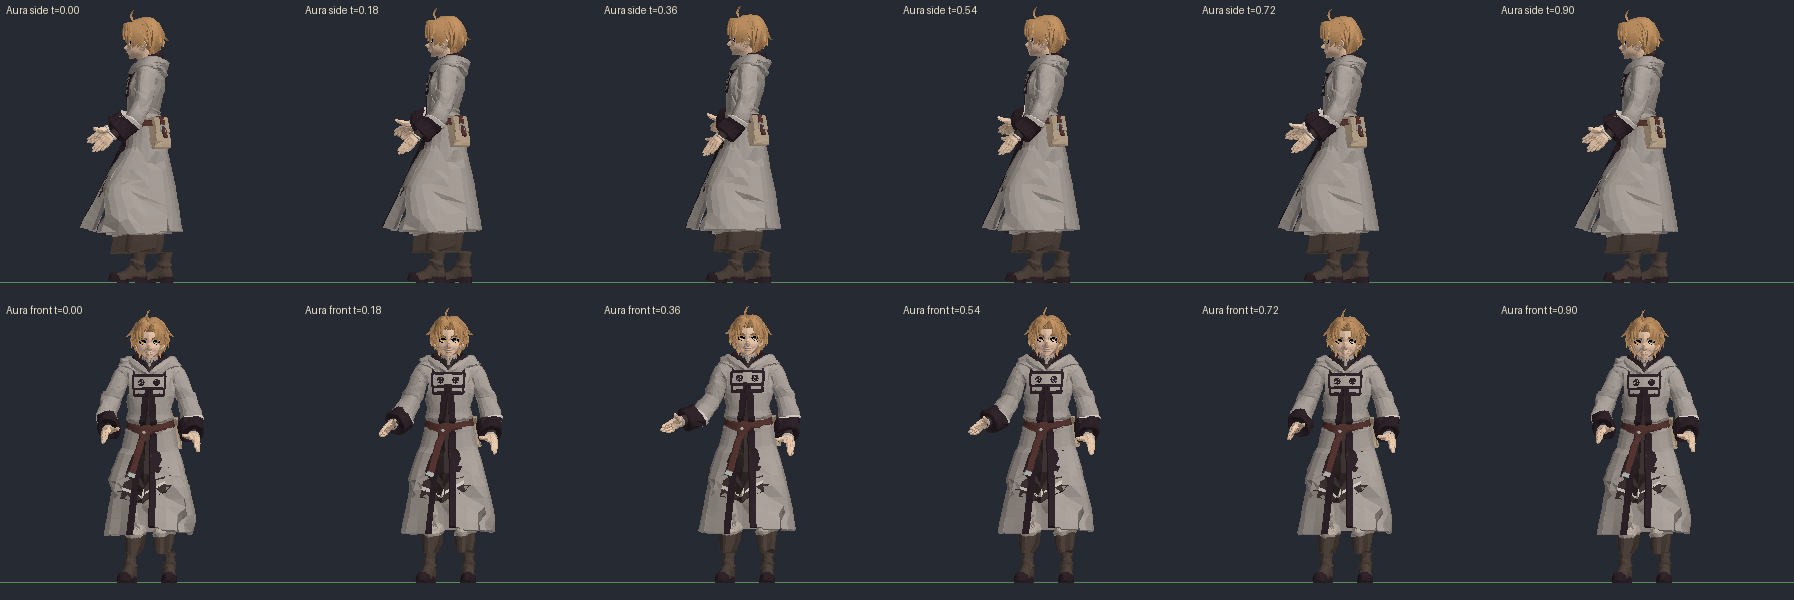
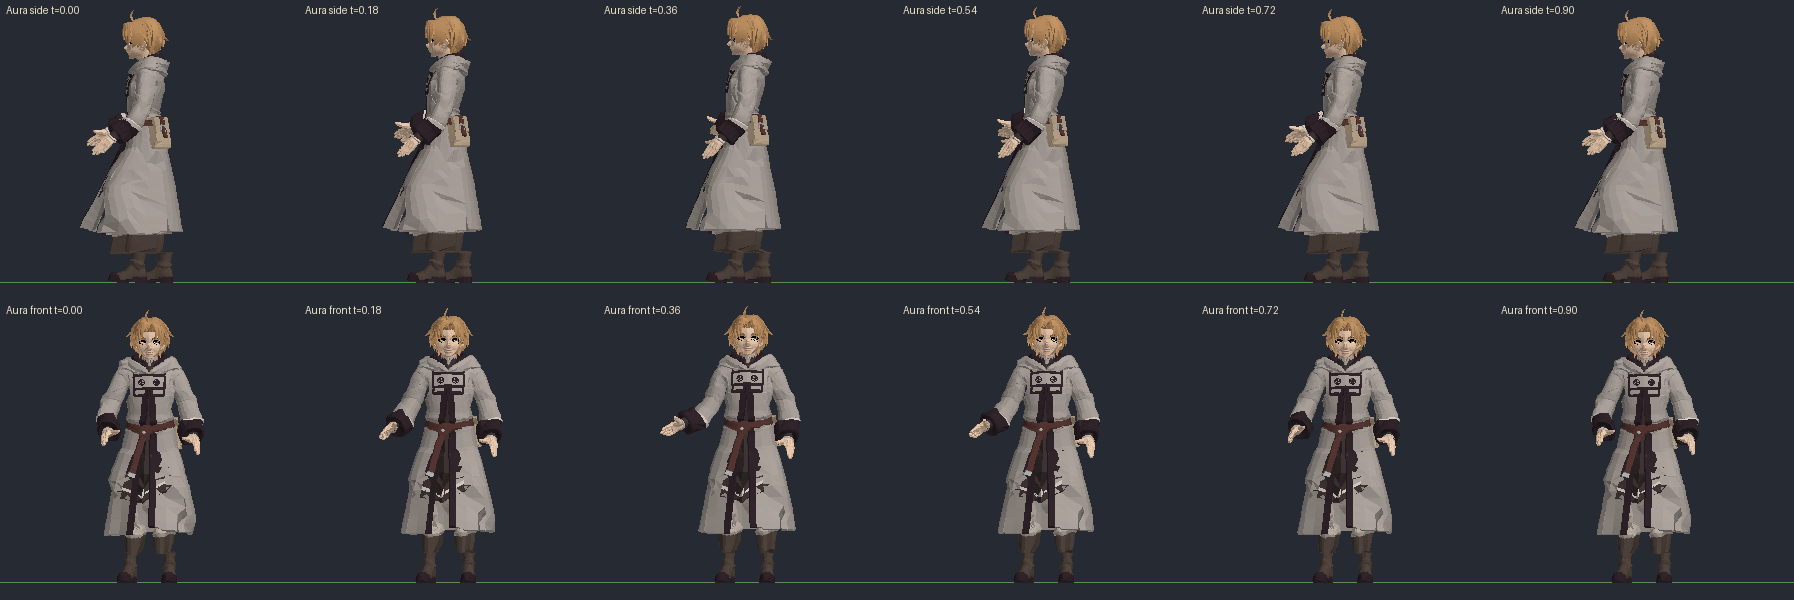
Ground clamp on every non-gait clip; Orsted set verified on a 1.9 m stand-in; Phase 1 QA regrade
- build_rudeus_anims.py: the ground clamp now covers every one-shot and stance loop (it only
  raises and is a no-op otherwise). Found by building Orsted's 40 clips on the 1.9 m re-rig
  stand-in: Dragon Step (-5.3 cm) and Quagmire (-3.8 cm) reached into the floor; now fixed,
  verify_glb PASS. Rudeus's build is byte-identical (nothing of his was affected).
- Refreshed the A_Orsted_* stand-in contact sheets to the current clip definitions.
- Docs/Phase1_QA.md: honest regrade after the offline animation pass (animation 0.5 -> 3.5,
  overall 2.3 -> 2.6, still FAIL: nothing has run in Unreal); next steps updated for UE 5.8.
- Docs/QA_Animation.md: clamp rule and the Orsted stand-in results.

Claude-Session: https://claude.ai/code/session_01NntBTN5dc5yDiRmoauiPvR

diff --git a/Tools/anim/build_rudeus_anims.py b/Tools/anim/build_rudeus_anims.py
@@ -27,14 +27,20 @@ QA_DIR = os.path.join(scene.ROOT, "Docs", "Images", "Animation")
 TEX = os.path.join(os.path.dirname(os.path.abspath(__file__)), "..", "..", "SourceArt", "Characters", "Rudeus", "Rudeus_Atlas.png")
 
 
-GROUND_CLAMP = {"Knockdown", "Death", "DodgeForward", "DodgeBack", "DodgeLeft", "DodgeRight", "HardLand", "Land", "JumpStart"}
+AIRBORNE = {"Rise", "Fall"}  # these loops only ever play while the capsule is in the air
+
+
+def needs_ground_clamp(name):
+    """Every clip that can reach the floor with more than its planted feet (lying down, kneeling, a hand on the
+    ground, a longer-limbed lineage): all one-shots and stance loops. Gait loops are exact IK by construction."""
+    return name not in AIRBORNE and name not in C.GAITS
 
 
 def ground_corrected(rig, mesh, name, params):
     """Compose a pose; for clips that touch the floor with the body, raise the pelvis so the lowest
     skinned vertex rests exactly on the ground (no penetration, no floating when lying down)."""
     D, pel = compose(rig, params)
-    if name not in GROUND_CLAMP:
+    if not needs_ground_clamp(name):
         return D, pel
     p2 = dict(params)
     base_z = params.get("pel_z", DEFAULTS["pel_z"])

diff --git a/Docs/Phase1_QA.md b/Docs/Phase1_QA.md
@@ -24,6 +24,10 @@ Every category that depends on seeing the game run is graded on **evidence only*
 | Terrain generation (`Tools/generate_fittoa_terrain.py`) | Heights 25–236 m, weight maps sum to 255 on every pixel: **PASS** |
 | Static integrity check of the C++ module (89 files, ~23.7k lines, 102 reflected types) | Local includes resolve, `generated.h` correct and last, no duplicate types, no Blueprint-exposed weak pointers: **PASS** |
 | Cross-module API check (HUD ↔ player ↔ progression ↔ save ↔ quests ↔ time of day) | Signatures match at every call site checked: **PASS** |
+| Animation build metrics (`Tools/anim/build_rudeus_anims.py`, 37 clips) | 0.00 cm IK error on planted frames, 0.00 cm/s planted slip, 0.000° loop seams: **PASS** |
+| Independent GLB check (`Tools/anim/verify_glb.py`, numpy skinning, no Blender) | 136 joints, 1.617 m, 37 clips with exact durations, floor-contact clips within 0.6 cm of the ground: **PASS** |
+| Per-frame motion QA (`Tools/anim/qa_animation_quality.py`) | No hyperextension, no wrist twist, no quaternion flips, fastest limb 31.3°/frame (dash start), ankles ≥ 13.2 cm apart, planted-foot slide ≤ 4.2 cm (knockback / dodge landings): measured, see `Docs/QA_Animation.md` |
+| Setup scripts against a mock `unreal` module | Rudeus 37/37 and Orsted 40/40 clips placed, second run idempotent, 0 FAIL lines |
 
 ## Grade: Phase 1 scope
 
@@ -31,7 +35,7 @@ Every category that depends on seeing the game run is graded on **evidence only*
 |---|---|---|---|
 | 1 | Gameplay | 2.0 | Complete systems written, never played |
 | 2 | Responsiveness | 1.5 | Input buffer, root-motion dodge, camera lag tuned on paper only |
-| 3 | Animation | 0.5 | No clips downloaded, no AnimBP asset, no custom Control Rig animations |
+| 3 | Animation | 3.5 | 37 clips authored on Rudeus's own skeleton and verified offline (metrics above), plus graph-free playback code. Never seen in Unreal, and the playback code has never compiled; procedural keys with no mocap nuance. |
 | 4 | Character accuracy | 6.5 | Uses **your** model at the correct scale with original colours. Not yet seen in-engine; the lit toon material is untested. |
 | 5 | Combat | 2.0 | Full framework in code, unplayed |
 | 6 | VFX | 0.5 | No Niagara assets. Placeholders differ per element but are placeholders. |
@@ -42,7 +46,7 @@ Every category that depends on seeing the game run is graded on **evidence only*
 | 11 | Stability | 1.0 | Never compiled; first compile will surface errors |
 | 12 | Lore / reference accuracy | 6.5 | Researched with CANON vs ORIGINAL labels, but only through search summaries (source pages were blocked) |
 
-**Overall: 2.3 / 10. FAIL** (target 8.5; critical categories animation, stability and gameplay are far below 8.0).
+**Overall: 2.6 / 10. FAIL** (target 8.5; critical categories animation, stability and gameplay are far below 8.0).
 
 ## Improvement passes (five-pass rule)
 
@@ -60,15 +64,39 @@ Every category that depends on seeing the game run is graded on **evidence only*
 - **Testing:** static include/type check PASS, data validator PASS, roll sim PASS.
 - **New score:** 2.3
 
-### PASS 3 – PASS 5: blocked
+### PASS 3 (offline animation content)
+- **Score:** 2.3
+- **Problems:**
+  - Mixamo needs an interactive login, so there were no clips at all.
+  - The first authored set had:
+    - 350° quaternion flips;
+    - strike and dodge snaps up to 52.6°/frame;
+    - feet skating up to 25 cm in stagger, knockdown and awakening;
+    - strafe boots colliding (5.4 cm gap);
+    - projectile spawns that were ahead of the casting gesture;
+    - no clip for locked-on running (the forward run slid sideways).
+- **Changes:**
+  - 37 clips authored with the tools in `Tools/anim`: monotone-cubic keys, position-space FK/IK leg blending, re-timed strikes, real recovery steps, new RunStrafeLeft/Right/RunBack loops.
+  - Native 4-way directional blending on both gait bands.
+  - The Orsted pipeline switches his data to his own clips.
+- **Testing:** builder metrics, the independent numpy GLB verifier and per-frame motion QA, all measured (table above and `Docs/QA_Animation.md`). Contact sheets were reviewed visually.
+- **New score:** 2.6 (animation 0.5 → 3.5; every other category unchanged, because nothing has run in-engine).
 
-The remaining weaknesses (compile, animation, in-engine feel, VFX, visual QA for z-fighting and flicker) can only be fixed and tested inside Unreal Engine. Running more "passes" here would mean inventing scores, which the brief forbids.
+### PASS 4 – PASS 5: blocked
+
+The remaining weaknesses need Unreal Engine to fix and test: compile, in-engine animation and feel, VFX, and visual QA for z-fighting and flicker. Running more "passes" here would mean inventing scores, which the brief forbids.
 
 ## What remains below target, and exactly how to close it
 
-1. **Compile** in UE 5.5 and fix errors. This is the stability gate and nothing else counts until it's done.
-2. `py mt_create_materials.py` → `py mt_setup_rudeus.py`. Check 161.7 cm, the sockets, IK_Rudeus, and RTG_Mixamo_To_Rudeus.
-3. Download the Mixamo clips in `Animation_Pipeline.md` §1. Re-run the setup to batch-retarget, then fix the shoulder, knee and pelvis retarget pose.
-4. Build `ABP_Rudeus` on `UMTAnimInstance` (§4). Test idle → walk → run → sprint → jump → fall → land → run for snapping and foot sliding.
-5. Deformation test: shoulders, elbows, wrists, spine, neck, knees and ankles on extreme poses. Add a physics asset or AnimDynamics for the skirt and hair chains.
+1. **Compile** in UE 5.8 on the Mac: `Tools/mac/build_and_setup.sh --build-only`, and fix the errors. This is the stability gate, and nothing else counts until it's done. The riskiest engine APIs are listed in `Docs/Animation_Pipeline.md` §0.
+2. Run `Tools/mac/build_and_setup.sh` (materials, Rudeus import with 37 clips and sockets, world). Every `FAIL` / `MANUAL` line is a task.
+3. In Play-In-Editor, test these for snapping, foot sliding and blend pops:
+   - idle → walk → run → sprint → jump → fall → land → run;
+   - lock-on strafing at walk and run, in all 8 directions;
+   - every cast while standing and while moving (the upper-body layer);
+   - dodges, hits, stagger, knockdown and death.
+4. Deformation check in-engine: shoulders, elbows, wrists, spine, neck, knees and ankles on extreme poses. Add a physics asset or AnimDynamics for the skirt and hair chains.
+5. Orsted:
+   - Get his generated GLB into the repo. The CloudFront host is blocked for this cloud session, so either allow it in the environment's network settings or upload the file.
+   - Run `Tools/anim/make_orsted.sh <glb>`, then `Tools/mac/build_and_setup.sh`.
 6. Regrade with the same table. Only then move to Phase 2.

diff --git a/Docs/QA_Animation.md b/Docs/QA_Animation.md
@@ -24,7 +24,7 @@ Mixamo requires an interactive Adobe login, which this cloud session can't use. 
 - **Monotone cubic key interpolation** (Steffen). Motion flows through intermediate keys instead of stopping at each one. It eases into extremes (contacts, strike extensions, holds) and never overshoots a key.
 - **Automatic pelvis lowering** whenever a stride would over-extend a leg, so no leg ever snaps straight.
 - **Coat panels** (8 chains) follow the thighs, so legs never poke through the robe. Hair and coat trail at speed.
-- **Ground clamp** (iterative, per frame) for clips where the body touches the floor.
+- **Ground clamp** (iterative, per frame) on every one-shot and stance loop: nothing but the planted feet ever goes below the floor. It only raises the body and is a no-op otherwise. Gait loops are exact IK by construction; Rise and Fall only play in the air.
 - **Continuous quaternion signs** on export: no 360° flips for any interpolator.
 - **Rig repair:** 214 eye vertices were 100% weighted to the root control bone and would have hung in the air at standing eye height during crouches, knockdowns and death. They are re-weighted to the head.
 
@@ -178,6 +178,16 @@ Projectiles spawn at the ability's `CastTime`, so each strike now reaches full e
 - the lowest vertex of every floor-contact clip within 0.6 cm of the ground.
 
 Rise is an air loop and reaches −2.7 cm in place; it only ever plays while airborne. The contact sheet is in `Docs/Images/Animation/Verify_ExportedGLB.png`, and per-clip sheets are in `Docs/Images/Animation/`.
+
+## Orsted's clip set (stand-in test)
+
+Orsted's own model isn't in the repo yet. His full 40-clip set was built and verified on a **1.9 m stand-in**: Rudeus's mesh re-rigged by `rig_to_rudeus_skeleton.py`, which is also the first step of `make_orsted.sh`.
+
+- **Builder:** 0 clips with IK error, planted slip or seam problems.
+- **`verify_glb.py`: PASS.** The only dips below the floor are about 1 cm of sole on the run loops, plus the airborne Rise.
+- **The test caught one real issue.** On the longer body, Dragon Step (−5.3 cm) and Quagmire (−3.8 cm) reached into the floor. That is why the ground clamp now covers every non-gait clip.
+
+The `A_Orsted_*` contact sheets in `Docs/Images/Animation/` are renders on that stand-in: they show Orsted's motion, not his look.
 
 ## Honest limits
 
